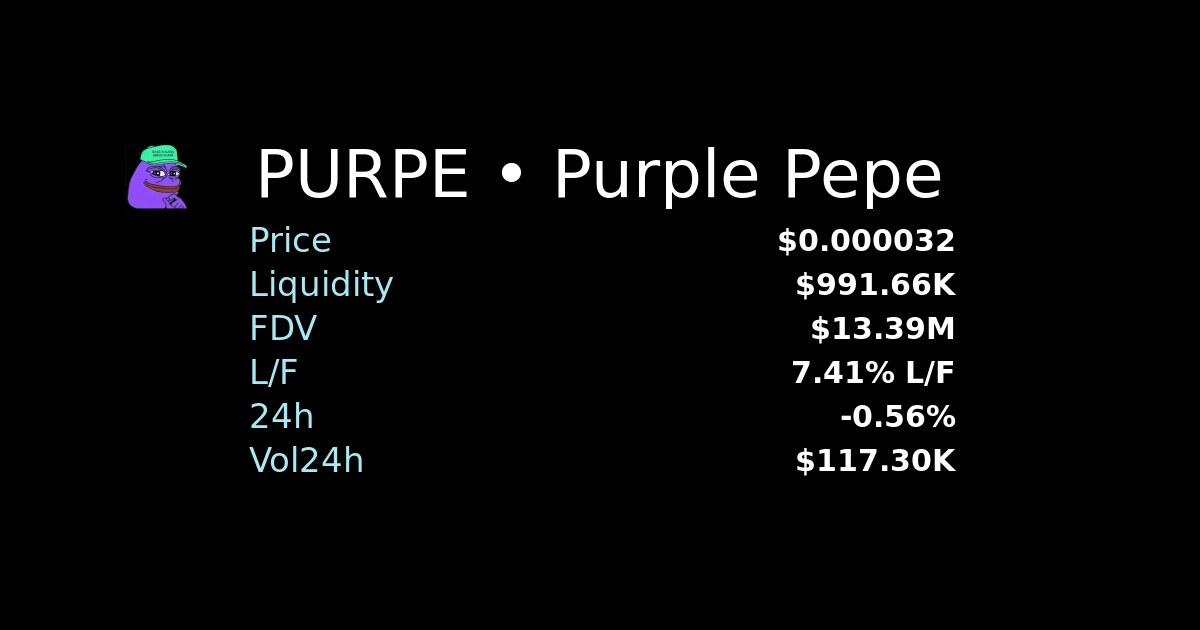
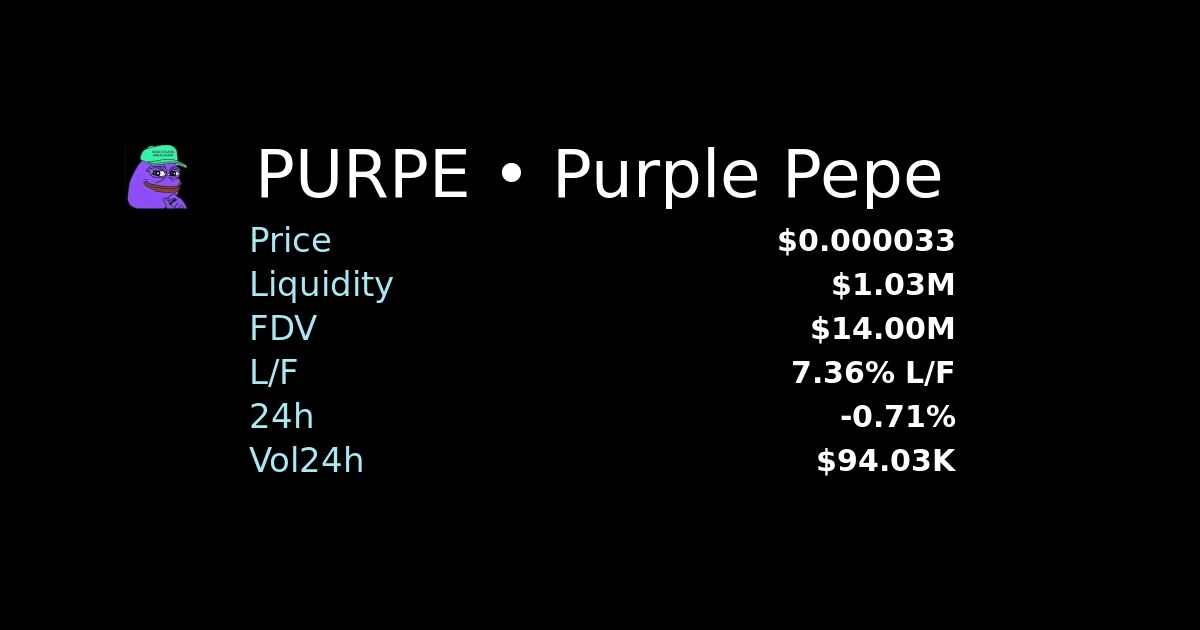
chore: update sitemap & token pages

diff --git a/token/HBoNJ5v8g71s2boRivrHnfSB5MVPLDHHyVjruPfhGkvL/index.html b/token/HBoNJ5v8g71s2boRivrHnfSB5MVPLDHHyVjruPfhGkvL/index.html
@@ -4,14 +4,14 @@
     <meta charset="utf-8" />
     <meta name="viewport" content="width=device-width,initial-scale=1" />
     <title>PURPE on Solana</title>
-    <meta name="description" content="Purple Pepe • Price: $0.000032 • Liquidity: $991.66K" />
+    <meta name="description" content="Purple Pepe • Price: $0.000033 • Liquidity: $1.03M" />
     <meta name="author" content="builders-toronto" />
     <meta name="keywords" content="solana, memecoin, bonk, wif, dog, inu, pepe, cat, meme, ponk, samo, purry, purr, kitty, meow, woof, frog, snek, toad, bob, dino, monke, monkey, ape, corgi, floki, elon" />
 
     <!-- OG -->
     <meta property="og:type" content="website" />
     <meta property="og:title" content="PURPE on Solana" />
-    <meta property="og:description" content="Purple Pepe • Price: $0.000032 • Liquidity: $991.66K" />
+    <meta property="og:description" content="Purple Pepe • Price: $0.000033 • Liquidity: $1.03M" />
     <meta property="og:url" content="https://fdv.lol/token/HBoNJ5v8g71s2boRivrHnfSB5MVPLDHHyVjruPfhGkvL" />
     <meta property="og:image" content="https://fdv.lol/token/HBoNJ5v8g71s2boRivrHnfSB5MVPLDHHyVjruPfhGkvL/og.jpg" />
     <meta property="og:image:width" content="1200" />
@@ -21,7 +21,7 @@
     <!-- Twitter -->
     <meta name="twitter:card" content="summary_large_image" />
     <meta name="twitter:title" content="PURPE on Solana" />
-    <meta name="twitter:description" content="Purple Pepe • Price: $0.000032 • Liquidity: $991.66K" />
+    <meta name="twitter:description" content="Purple Pepe • Price: $0.000033 • Liquidity: $1.03M" />
     <meta name="twitter:image" content="https://fdv.lol/token/HBoNJ5v8g71s2boRivrHnfSB5MVPLDHHyVjruPfhGkvL/og.jpg" />
 
     <link rel="icon" type="image/png" href="/src/assets/images/icons/fdv.lol.ico" />
@@ -35,7 +35,7 @@
       "@type": "WebSite",
       "name": "PURPE on Solana",
       "url": "https://fdv.lol/token/HBoNJ5v8g71s2boRivrHnfSB5MVPLDHHyVjruPfhGkvL",
-      "description": "Purple Pepe • Price: $0.000032 • Liquidity: $991.66K",
+      "description": "Purple Pepe • Price: $0.000033 • Liquidity: $1.03M",
       "keywords": [
         "solana",
         "memecoin",
